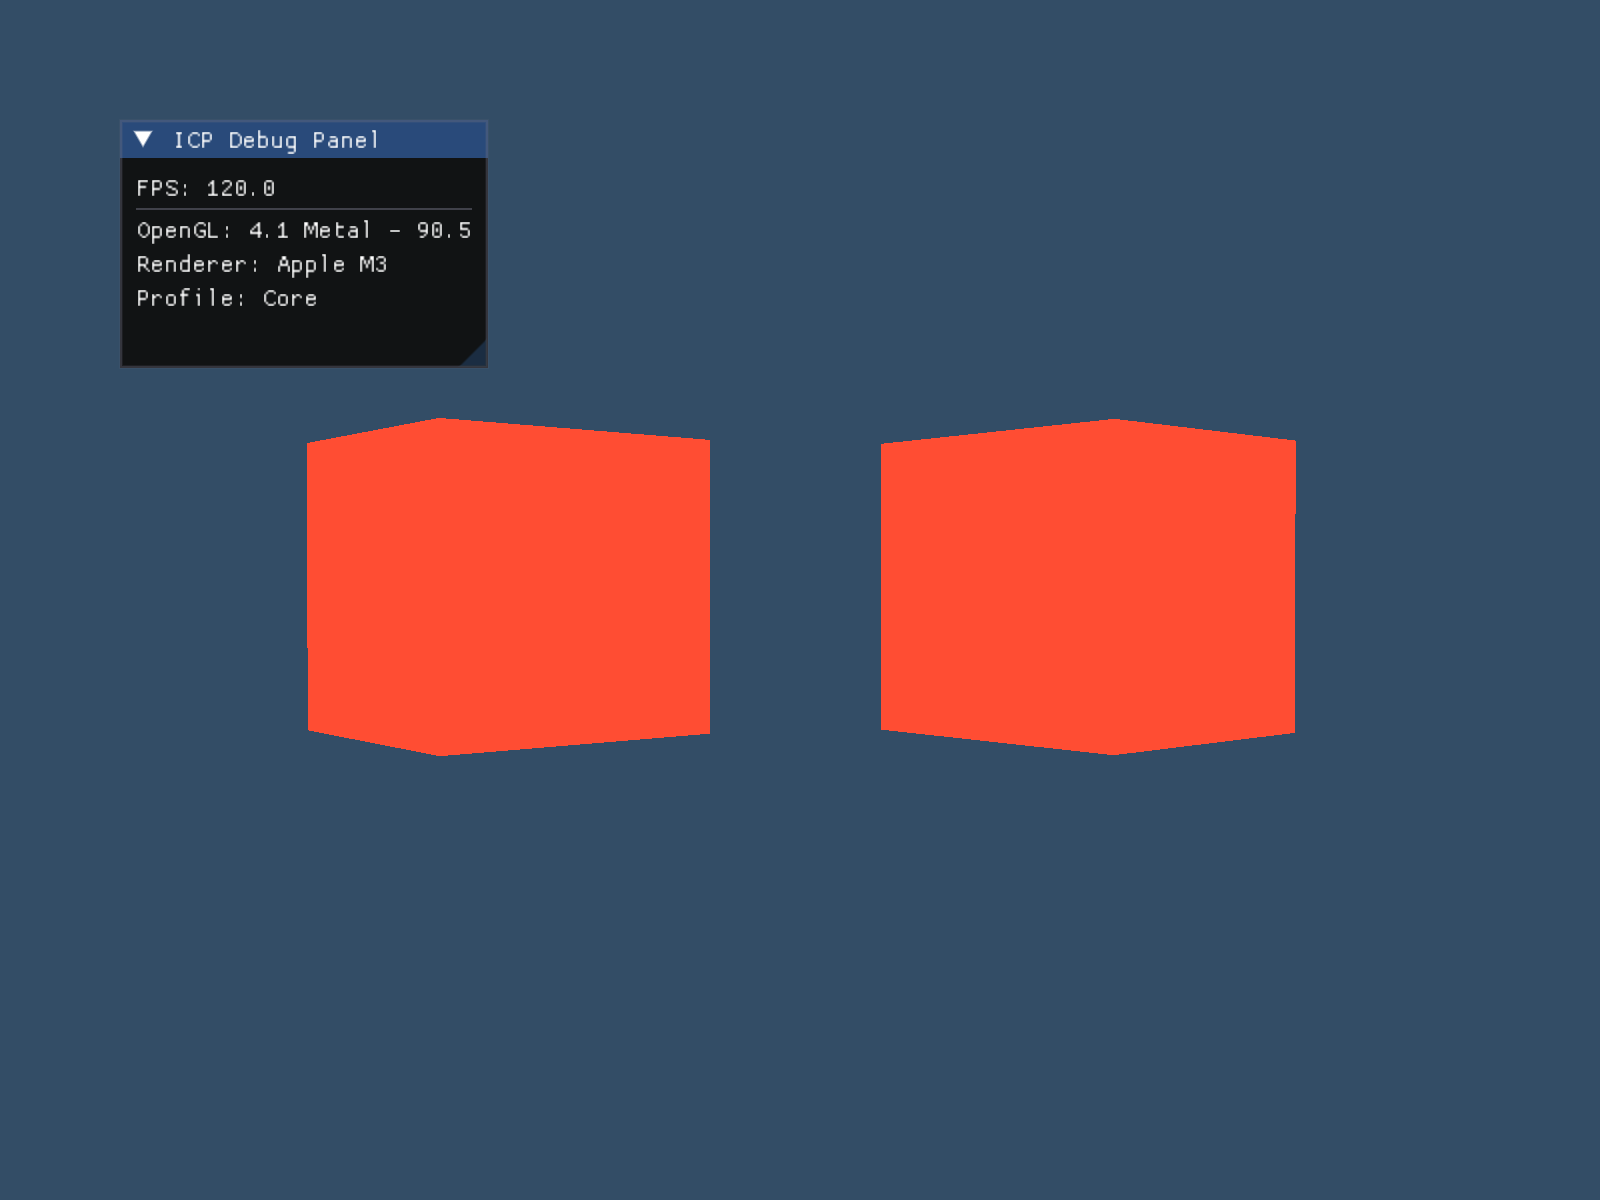
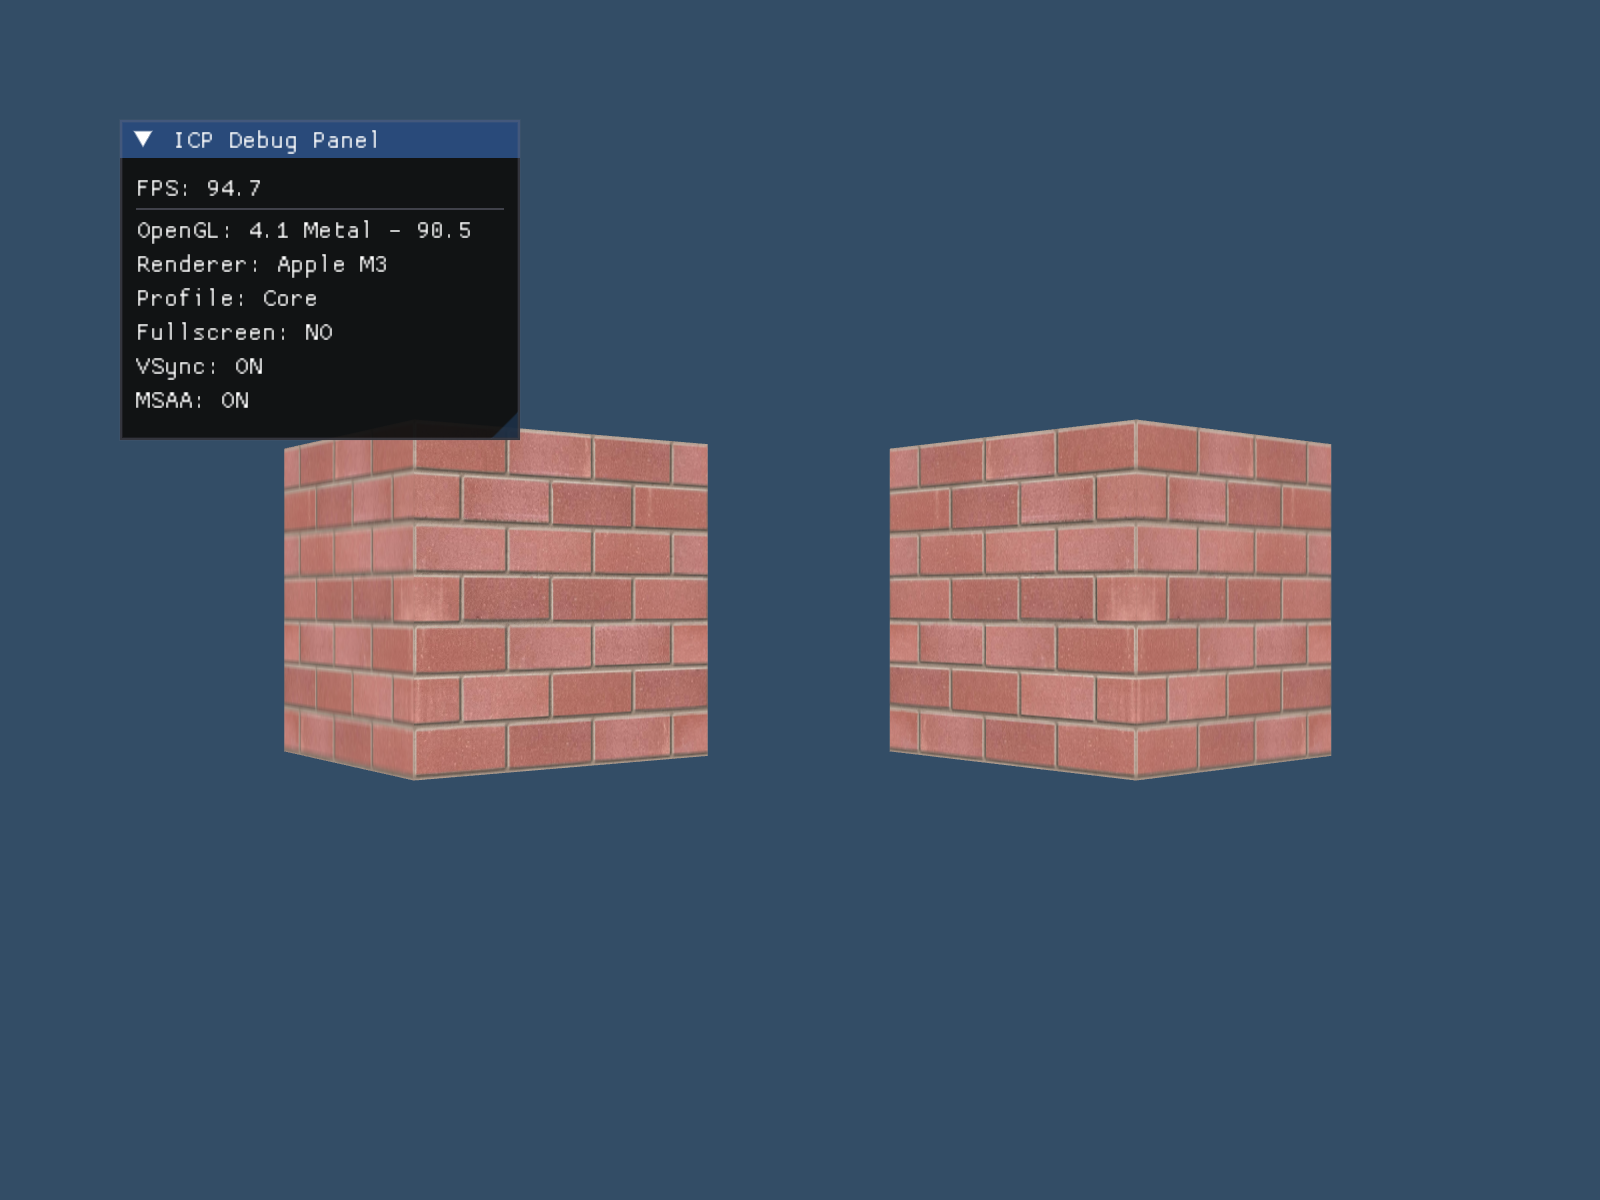
textures

Changed region(s): [[0.0625, 0.1233, 0.4688, 0.6475], [0.5312, 0.3392, 0.8438, 0.6475], [0.125, 0.1542, 0.1562, 0.185]]

diff --git a/src/lib/model.cpp b/src/lib/model.cpp
@@ -8,6 +8,8 @@ Model::Model(const std::string& path)
 
     std::vector<glm::vec3> tempVertices;
     std::vector<unsigned int> indices;
+    std::vector<glm::vec2> tempTexCoords;
+    std::vector<unsigned int> texIndices;
 
     std::string line;
 
@@ -23,25 +25,55 @@ Model::Model(const std::string& path)
             ss >> vertex.x >> vertex.y >> vertex.z;
             tempVertices.push_back(vertex);
         }
+        else if (prefix == "vt")
+        {
+            glm::vec2 tex;
+            ss >> tex.x >> tex.y;
+            tempTexCoords.push_back(tex);
+        }
         else if (prefix == "f")
         {
-            unsigned int a, b, c;
-            ss >> a >> b >> c;
+            std::string v1, v2, v3;
+            ss >> v1 >> v2 >> v3;
 
-            indices.push_back(a - 1);
-            indices.push_back(b - 1);
-            indices.push_back(c - 1);
+            auto parseVertex = [&](std::string v)
+            {
+                std::replace(v.begin(), v.end(), '/', ' ');
+                std::stringstream vs(v);
+
+                unsigned int vi, ti;
+                vs >> vi >> ti;
+
+                return std::pair<unsigned int, unsigned int>(vi - 1, ti - 1);
+            };
+
+            auto p1 = parseVertex(v1);
+            auto p2 = parseVertex(v2);
+            auto p3 = parseVertex(v3);
+
+            indices.push_back(p1.first);
+            indices.push_back(p2.first);
+            indices.push_back(p3.first);
+
+            texIndices.push_back(p1.second);
+            texIndices.push_back(p2.second);
+            texIndices.push_back(p3.second);
         }
     }
 
     std::vector<float> vertices;
 
-    for (unsigned int index : indices)
+    for (size_t i = 0; i < indices.size(); i++)
     {
-        glm::vec3 v = tempVertices[index];
+        glm::vec3 v = tempVertices[indices[i]];
+        glm::vec2 t = tempTexCoords[texIndices[i]];
+
         vertices.push_back(v.x);
         vertices.push_back(v.y);
         vertices.push_back(v.z);
+
+        vertices.push_back(t.x);
+        vertices.push_back(t.y);
     }
 
     mesh = new Mesh(vertices.data(), vertices.size() * sizeof(float));

diff --git a/src/lib/renderer.cpp b/src/lib/renderer.cpp
@@ -3,7 +3,6 @@
 
 GLFWwindow* Renderer::window = nullptr;
 Camera* Renderer::camera = nullptr;
-Shader* Renderer::shader = nullptr;
 
 static bool firstMouse = true;
 static float lastX = 400, lastY = 300;
@@ -16,8 +15,6 @@ int Renderer::savedPosX = 0;
 int Renderer::savedPosY = 0;
 int Renderer::savedWidth = 800;
 int Renderer::savedHeight = 600;
-
-GLint Renderer::mvpLocation = -1;
 
 void Renderer::toggleFullscreen()
 {
@@ -193,19 +190,6 @@ bool Renderer::init()
     float aspect = (float)width / (float)height;
     camera = new Camera(45.0f, aspect, 0.1f, 100.0f);
 
-    shader = new Shader(
-        "resources/shaders/vertex.glsl",
-        "resources/shaders/fragment.glsl"
-    );
-    shader->use();
-
-    mvpLocation = glGetUniformLocation(shader->getID(), "MVP");
-
-    if (mvpLocation == -1)
-    {
-        std::cout << "Warning: MVP uniform not found!" << std::endl;
-    }
-
     glViewport(0, 0, width, height);
 
     std::cout << "Renderer initialized, window created\n";
@@ -235,22 +219,19 @@ void Renderer::render()
     glClearColor(0.2f, 0.3f, 0.4f, 1.0f);
     glClear(GL_COLOR_BUFFER_BIT | GL_DEPTH_BUFFER_BIT);
 
-    shader->use();
-
     glm::mat4 view = camera->getViewMatrix();
     glm::mat4 projection = camera->getProjectionMatrix();
 
     for (auto obj : World::getObjects())
     {
+        Shader* shader = obj->getMaterial()->getShader();
+
+        shader->use();
+
         glm::mat4 model = obj->getModelMatrix();
         glm::mat4 mvp = projection * view * model;
 
-        glUniformMatrix4fv(
-            mvpLocation,
-            1,
-            GL_FALSE,
-            glm::value_ptr(mvp)
-        );
+        glUniformMatrix4fv(glGetUniformLocation(shader->getID(), "MVP"), 1, GL_FALSE, glm::value_ptr(mvp));
 
         obj->draw();
     }
@@ -270,9 +251,6 @@ void Renderer::shutdown()
 {
     delete camera;
     camera = nullptr;
-
-    delete shader;
-    shader = nullptr;
 
     GUI::shutdown();
 

diff --git a/src/lib/texture.cpp b/src/lib/texture.cpp
@@ -1,0 +1,41 @@
+#include "texture.hpp"
+
+
+Texture::Texture(const std::string& path)
+{
+    cv::Mat image = cv::imread(path, cv::IMREAD_COLOR);
+
+    if (image.empty())
+    {
+        std::cerr << "Failed to load texture: " << path << std::endl;
+        return;
+    }
+
+    cv::flip(image, image, 0);
+
+    glGenTextures(1, &ID);
+    glBindTexture(GL_TEXTURE_2D, ID);
+
+    glTexImage2D(GL_TEXTURE_2D, 0, GL_RGB, image.cols, image.rows, 0, GL_BGR, GL_UNSIGNED_BYTE, image.data);
+
+    glGenerateMipmap(GL_TEXTURE_2D);
+
+    glTexParameteri(GL_TEXTURE_2D, GL_TEXTURE_WRAP_S, GL_REPEAT);
+    glTexParameteri(GL_TEXTURE_2D, GL_TEXTURE_WRAP_T, GL_REPEAT);
+
+    glTexParameteri(GL_TEXTURE_2D, GL_TEXTURE_MIN_FILTER, GL_LINEAR_MIPMAP_LINEAR);
+    glTexParameteri(GL_TEXTURE_2D, GL_TEXTURE_MAG_FILTER, GL_LINEAR);
+
+    glBindTexture(GL_TEXTURE_2D, 0);
+}
+
+Texture::~Texture()
+{
+    glDeleteTextures(1, &ID);
+}
+
+void Texture::bind(unsigned int unit) const
+{
+    glActiveTexture(GL_TEXTURE0 + unit);
+    glBindTexture(GL_TEXTURE_2D, ID);
+}

diff --git a/src/lib/mesh.cpp b/src/lib/mesh.cpp
@@ -1,7 +1,7 @@
 #include "mesh.hpp"
 
 Mesh::Mesh(const float* vertices, size_t size){
-    vertexCount = size / (3 * sizeof(float));
+    vertexCount = size / (5 * sizeof(float));
 
     glGenVertexArrays(1, &VAO);
     glGenBuffers(1, &VBO);
@@ -11,9 +11,11 @@ Mesh::Mesh(const float* vertices, size_t size){
     glBindBuffer(GL_ARRAY_BUFFER, VBO);
     glBufferData(GL_ARRAY_BUFFER, size, vertices, GL_STATIC_DRAW);
 
-    glVertexAttribPointer(0, 3, GL_FLOAT, GL_FALSE,
-                          3 * sizeof(float), (void*)0);
+    glVertexAttribPointer(0, 3, GL_FLOAT, GL_FALSE, 5 * sizeof(float), (void*)0);
     glEnableVertexAttribArray(0);
+
+    glVertexAttribPointer(1, 2, GL_FLOAT, GL_FALSE, 5 * sizeof(float), (void*)(3 * sizeof(float)));
+    glEnableVertexAttribArray(1);
 
     glBindVertexArray(0);
 }

diff --git a/src/lib/world.cpp b/src/lib/world.cpp
@@ -5,12 +5,20 @@ float World::elapsedTime = 0.0f;
 
 void World::init()
 {
+    Shader* shader = new Shader(
+        "resources/shaders/vertex.glsl",
+        "resources/shaders/fragment.glsl"
+    );
+
+    Texture* brick = new Texture("resources/textures/brick.png");
+    Material* brickMaterial = new Material(shader, brick);
+
     Model* cube = new Model("resources/obj/cube.obj");
 
-    Object* obj1 = new Object(cube);
+    Object* obj1 = new Object(cube, brickMaterial);
     obj1->setPosition(glm::vec3(-1.0f, 0.0f, 0.0f));
 
-    Object* obj2 = new Object(cube);
+    Object* obj2 = new Object(cube, brickMaterial);
     obj2->setPosition(glm::vec3(1.0f, 0.0f, 0.0f));
 
     objects.push_back(obj1);

diff --git a/src/lib/renderer.hpp b/src/lib/renderer.hpp
@@ -32,7 +32,6 @@ class Renderer {
 
         static GLFWwindow* getWindow();
         static Camera* getCamera();
-        static Shader* getShader();
 
         static void toggleFullscreen();
         static void toggleVSync();
@@ -45,7 +44,6 @@ class Renderer {
     private:
         static GLFWwindow* window;
         static Camera* camera;
-        static Shader* shader;
 
         static bool fullscreen;
         static bool vsync;
@@ -55,6 +53,4 @@ class Renderer {
         static int savedPosY;
         static int savedWidth;
         static int savedHeight;
-
-        static GLint mvpLocation;
 };

diff --git a/src/lib/object.hpp b/src/lib/object.hpp
@@ -4,12 +4,13 @@
 #include <glm/gtc/matrix_transform.hpp>
 
 #include "model.hpp"
+#include "material.hpp"
 
 class Model;
 
 class Object {
     public:
-        Object(Model* model);
+        Object(Model* model, Material* material);
 
         void setPosition(const glm::vec3& pos);
         void setRotation(const glm::vec3& rot);
@@ -17,8 +18,11 @@ class Object {
         glm::mat4 getModelMatrix() const;
         void draw() const;
 
+        Material* getMaterial() const;
+
     private:
         Model* model;
+        Material* material;
 
         glm::vec3 position;
         glm::vec3 rotation;

diff --git a/src/lib/object.cpp b/src/lib/object.cpp
@@ -1,6 +1,6 @@
 #include "object.hpp"
 
-Object::Object(Model* model) : model(model), position(0.0f), rotation(0.0f)
+Object::Object(Model* model, Material* material) : model(model), material(material), position(0.0f), rotation(0.0f)
 {}
 
 void Object::setPosition(const glm::vec3& pos)
@@ -28,5 +28,11 @@ glm::mat4 Object::getModelMatrix() const
 
 void Object::draw() const
 {
+    material->bind();
     model->draw();
+}
+
+Material* Object::getMaterial() const
+{
+    return material;
 }

diff --git a/src/lib/texture.hpp b/src/lib/texture.hpp
@@ -1,0 +1,17 @@
+#pragma once
+
+#include <string>
+#include <GL/glew.h>
+#include <opencv2/opencv.hpp>
+#include <iostream>
+
+class Texture {
+    public:
+        Texture(const std::string& path);
+        ~Texture();
+
+        void bind(unsigned int unit = 0) const;
+
+    private:
+        GLuint ID;
+};

diff --git a/src/lib/material.cpp b/src/lib/material.cpp
@@ -1,0 +1,16 @@
+#include "material.hpp"
+
+Material::Material(Shader* shader, Texture* texture)
+    : shader(shader), texture(texture)
+{}
+
+void Material::bind() const
+{
+    shader->use();
+    texture->bind(0);
+}
+
+Shader* Material::getShader() const
+{
+    return shader;
+}

diff --git a/src/lib/material.hpp b/src/lib/material.hpp
@@ -1,0 +1,16 @@
+#pragma once
+#include "shader.hpp"
+#include "texture.hpp"
+
+class Material
+{
+public:
+    Material(Shader* shader, Texture* texture);
+
+    void bind() const;
+    Shader* getShader() const;
+
+private:
+    Shader* shader;
+    Texture* texture;
+};

diff --git a/src/lib/world.hpp b/src/lib/world.hpp
@@ -5,6 +5,8 @@
 
 #include "object.hpp"
 #include "mesh.hpp"
+#include "material.hpp"
+#include "texture.hpp"
 
 class Object;
 
